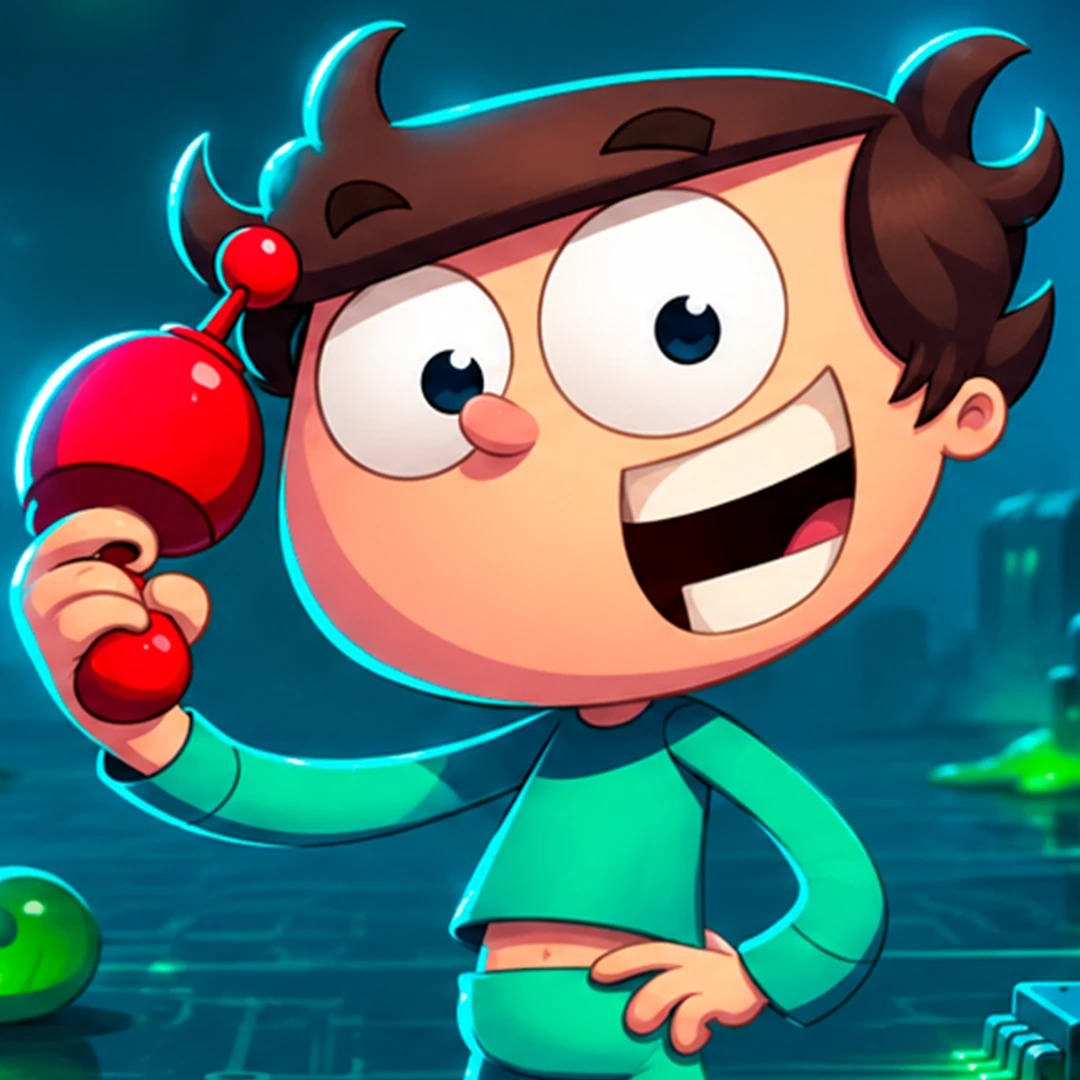
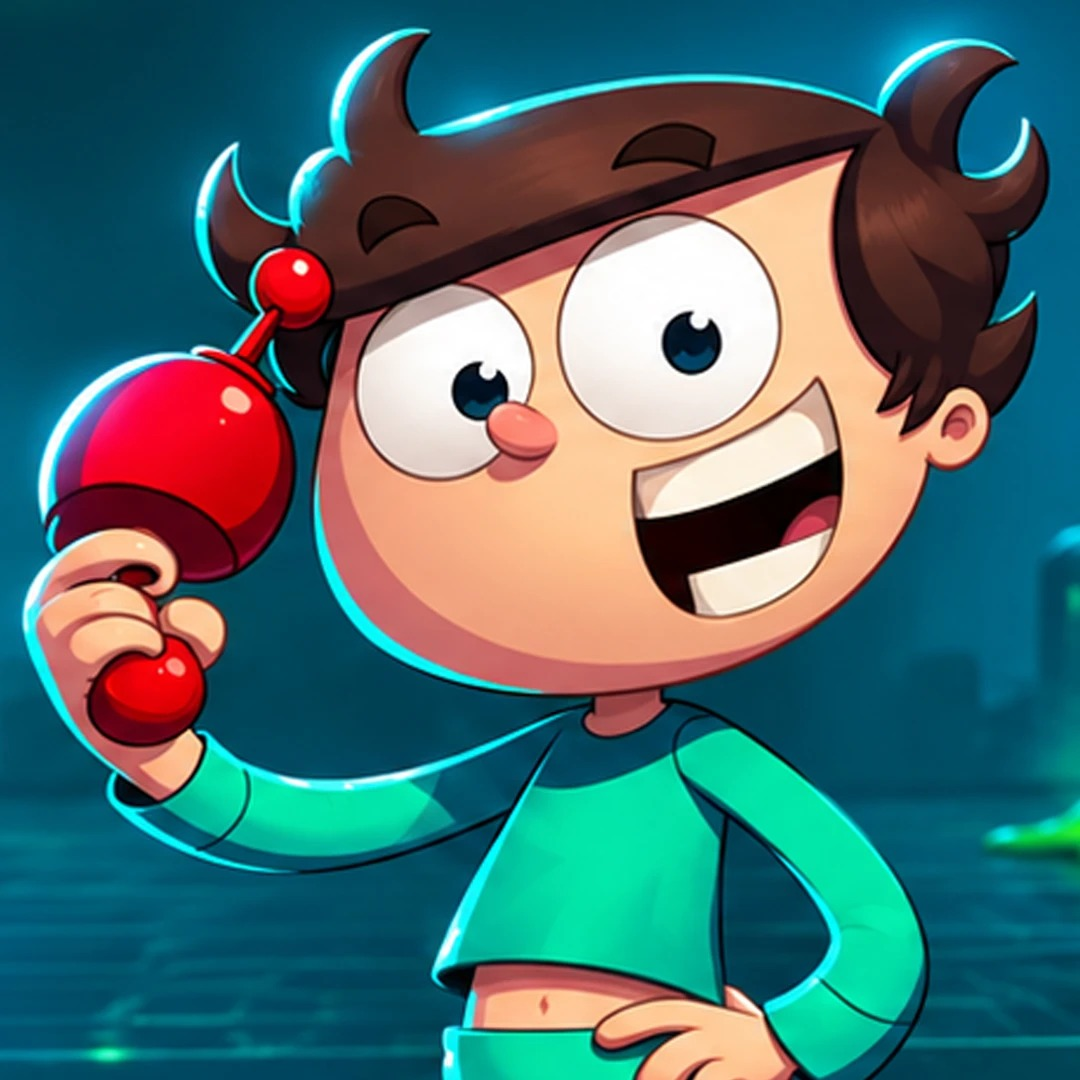
v0.3.69: new Juanito cover, rounded project cards, solid filter bar on phones

diff --git a/CLAUDE.md b/CLAUDE.md
@@ -59,7 +59,7 @@ Short, strong phrases. No repeated key words across the home. Professional tone:
 - Media layout (being tried on Juanito only; other projects keep the video grid, image grid and press list until it is approved): `highlights` (1–2 videos) play big, one under the other, in a dark full-width band, each with a `title` and a short `text` (title + aside layout); the gallery is a 16:9 viewer with a thumbnail strip, images only; `process` items can be videos (speed paints, making of) under "Detrás de escena"; `press` shows 2–3 chosen items as white cards with the bottom-right corner folded (outlet name on one line with a small fixed-width pink `score` badge on its right, full headline, `author` and year) and can hold videos (TV, streams). The Game Ever page is a curated selection: the rest of the material stays commented in the project file for the game's own site.
 - Videos (`src/components/YouTube.astro`): the poster is YouTube's best thumbnail (maxres 1280x720 when it exists), recorded in `src/data/yt-thumbs.json` by `node scripts/yt-thumbs.mjs` (run it after adding videos; missing ones are checked at build time). The play button is YouTube's rounded rectangle in our pink, centered, no text; it grows with the player (container queries).
 - Gallery: images at their own shape, two per row (four for phone screenshots, one/two on phones); a click opens the viewer (arrows, keys, swipe, Esc).
-- Corners: images that stand alone (the thumbnail next to the title, the "Próximo proyecto" one) are rounded; edge-to-edge images (hero, phone cover) are square. Some old-site covers have dark rounded corners painted in; replace them with clean images.
+- Corners: images that stand alone (project cards in the grids, the thumbnail next to the title, the "Próximo proyecto" one) are rounded; edge-to-edge images (hero, phone cover) are square. Some old-site covers have dark rounded corners painted in; replace them with clean images.
 - The small line over the title shows service · client only (no year: it is in the fact sheet). Titles go down to 30px on phones so most fit in two lines.
 - Titles with a series or franchise set `series` (e.g. "Canciones del Zoo" over "Vol. 3", "LIT Killah" over "The Game", "Juanito" over "Arcade Mayhem"): the project page shows it as a smaller line over the rest of the title; cards, search and meta use the full `title`.
 - No "Ver tráiler" button in the hero: the videos are a scroll away. The hero only has the store / site buttons.
